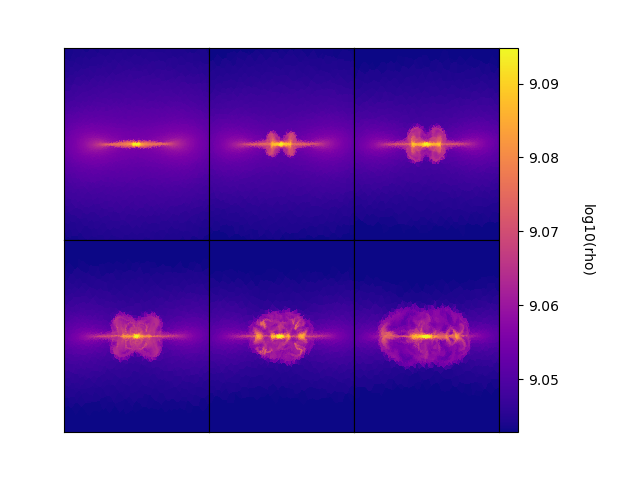
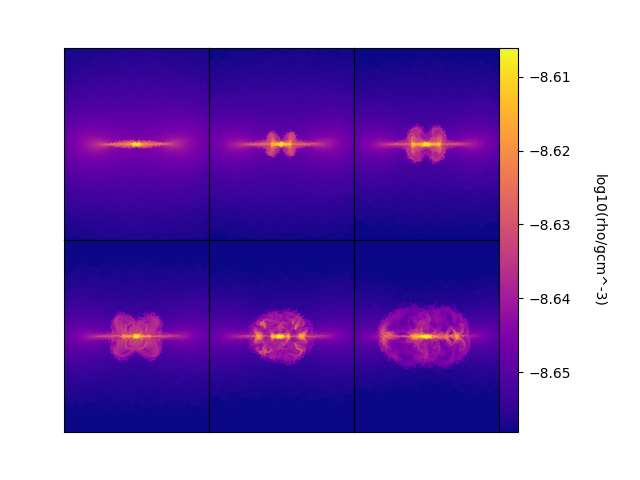
.

diff --git a/lewis_arepo_code/Masahiro_remesh.py b/lewis_arepo_code/Masahiro_remesh.py
@@ -1,0 +1,116 @@
+#!/usr/bin/env python3
+# -*- coding: utf-8 -*-
+"""
+Created on Mon Nov  4 12:07:05 2019
+
+@author: lewisprole
+"""
+import numpy as np
+import matplotlib.pyplot as plt 
+import struct
+import binascii
+import arepo_input_writer
+import gadget_reader_lewis
+import spherical_spray
+import velocities
+import radial_density
+import internal_energy
+import calculate_radius
+import code_units
+import calculate_freefall
+import os, shutil
+import astropy.constants as ap 
+
+filename='/scratch/c.c1521474/Masahiro/ics/snapshot_150'                #read remesh data
+a=gadget_reader_lewis.reader(filename)        
+shutil.copyfile(filename,'/scratch/c.c1521474/Masahiro/remeshed.dat')
+
+n0,n1,n2,n3,n4,n5=a.npart
+                                            #header data
+sofar=[]
+npart=(n0,n1,n2,n3,n4,n5)
+massarr=(0,0,0,0,0,0)
+time=10
+redshift=0
+flag_sfr=0
+flag_feedback=0
+npartTotal=(n0,n1,n2,n3,n4,n5)
+flag_cooling=0
+num_files=1
+boxsize=0
+cos1=0
+cos2=0
+hubble_param=1
+flag_stellarage=0
+flag_metals=0
+npartHighword=(0,0,0,0,0,0)
+flag_entropy=0
+flag_dp=1
+flag_1pt=0
+scalefactor=1
+
+
+#box parameters - Bonnor Ebert sphere in diffuse ISM
+T=10
+M=1.989e33
+r=2.4e4*ap.au.cgs.value
+n0=6e5 * 2.4 * ap.m_p.cgs.value
+enhance=1.5
+n_bg=1.1e4 * 2.4 * ap.m_p.cgs.value
+boxsize=4*r
+mid=boxsize/2
+G=ap.G.cgs.value
+
+Bsize_CU=round(boxsize/code_units.d_cu,3)
+print('boxsize: '+ str(Bsize_CU))
+print('radius: '+str(r/code_units.d_cu))
+boxsize=Bsize_CU*code_units.d_cu
+
+
+#convert back to cgs
+m=a.mass
+m_cgs=np.asarray(m)*code_units.M_cu  
+x=np.asarray(a.x)*code_units.d_cu 
+y=np.asarray(a.y)*code_units.d_cu
+z=np.asarray(a.z)*code_units.d_cu
+
+#add solid rotation
+vx,vy,vz=velocities.rot_sphere(boxsize,(x,y,z),M,r,0.02)
+vx=vx/code_units.v_cu
+vy=vy/code_units.v_cu
+vz=vz/code_units.v_cu 
+v=(vx,vy,vz)
+
+#prepare for rewrite 
+x=(a.x,a.y,a.z)
+ids=a.ids
+u=a.u
+
+#magnetic field
+Bx=np.zeros_like(vx) #only in z direction 
+By=np.zeros_like(vy)
+
+
+crit_MtoF=0.53/(3*np.pi) * np.sqrt(5/G) #critical mass-to-flux (cgs)
+mu=1 #ratio of mass-to-flux over critical mass-to-flux
+MtoF=mu*crit_MtoF #mass-to-flux ratio (cgs)
+F=M/MtoF #flux (cgs)
+B=F/(np.pi*(r)**2) #flux densiity (G)    
+Bcode=B/code_units.B_cu #into code units 
+Bz=Bcode*np.ones_like(vx) #only in z direction 
+B=(Bx,By,Bz)
+
+
+#write ICs file 
+sofar=arepo_input_writer.header(sofar,npart,massarr,time,redshift,flag_sfr,flag_feedback,
+           npartTotal,flag_cooling,num_files,boxsize,cos1,cos2,
+           hubble_param,flag_stellarage,flag_metals,npartHighword,
+           flag_entropy,flag_dp,flag_1pt,scalefactor)    
+sofar=arepo_input_writer.tag_block(sofar,x,'POS ','d',3)
+sofar=arepo_input_writer.tag_block(sofar,v,'VEL ','d',3)
+sofar=arepo_input_writer.tag_block(sofar,ids,'ID  ','i',1)
+sofar=arepo_input_writer.tag_block(sofar,m,'MASS','d',1)
+sofar=arepo_input_writer.tag_block(sofar,u,'U   ','d',1)
+sofar=arepo_input_writer.tag_block(sofar,B,'BFLD','d',3)
+arepo_input_writer.writer(sofar,'/scratch/c.c1521474/Masahiro/arepo_input_mu1.dat')
+

diff --git a/lewis_arepo_code/analyse.py b/lewis_arepo_code/analyse.py
@@ -287,27 +287,68 @@ def plot6(dirname,snaps,weight_type,zoomzone,boxsize,force_lin):
 		fig.colorbar(im,ax=axs.ravel().tolist(), shrink=1,pad=0)
 
 
-def sliceplot(dirname,names):
+def sliceplot(dirname,names,weight_type):
+	if weight_type=='rho':
+		tag='log10(rho/gcm^-3)'
+		unit=code_units.rho_cu
+	if weight_type=='bratio':
+		unit=code_units.B_cu
+		tag='log10(Bz/G)'
 	fig,axs=plt.subplots(2,3,sharey=True,sharex=True)
 	axs=axs.ravel()
 	for i in range(len(axs)):
 		A=np.fromfile(dirname+names[i], dtype='int32', sep="")[2:].reshape([1000, 1000])
 		if i==0:
-			im=axs[i].imshow(np.log10(A.T),aspect='auto', cmap='plasma', origin='lower')
+			im=axs[i].imshow(np.log10(A.T*unit),aspect='auto', cmap='plasma', origin='lower')
 			clim=im.properties()['clim']
 			axs[i].set_xticks([])
 			axs[i].set_yticks([])
 			axs[i].set_xlim(0,1000)
 			axs[i].set_ylim(0,1000)
 		else:
-			axs[i].imshow(np.log10(A.T),clim=clim,aspect='auto', cmap='plasma', origin='lower')
+			axs[i].imshow(np.log10(A.T*unit),clim=clim,aspect='auto', cmap='plasma', origin='lower')
 			axs[i].set_xticks([])
 			axs[i].set_yticks([])
 			axs[i].set_xlim(0,1000)
 			axs[i].set_ylim(0,1000)
 	fig.subplots_adjust(0.1,0.1,0.9,0.9,0,0)
 	cbar=fig.colorbar(im,ax=axs.tolist(), shrink=1,pad=0)
-	cbar.ax.set_ylabel('log10(rho)', rotation=270,labelpad=25)
+	cbar.ax.set_ylabel(tag, rotation=270,labelpad=25)
+
+def ratioB_cube(name,size_cu,pixels):
+	
+	x=np.linspace(0,size_cu,pixels) 
+	y,x=np.meshgrid(x,x)
+	x=x-size_cu/2
+	y=y-size_cu/2
+	
+	A=np.fromfile(name,dtype=np.int32)[3:]
+	Bx=A[0::3].reshape(pixels,pixels,pixels)
+	A=np.fromfile(name,dtype=np.int32)[3:]
+	By=A[1::3].reshape(pixels,pixels,pixels)
+	A=np.fromfile(name,dtype=np.int32)[3:]
+	Bz=A[2::3].reshape(pixels,pixels,pixels)
+	bratio=np.zeros((1000,1000,1000))
+	for i in range (pixels):
+		bx=Bx[:,:,i]
+		by=By[:,:,i]
+		bz=Bz[:,:,i]
+		bratio[:,:,i]=1/np.sqrt(1+(x/y)**2) * (bx-(x/y)*by) /bz
+	#Brot=1/np.sqrt(1+(x/y)**2) * (Bx-(x/y)*By)
+	#bratio=Brot/Bz
+	return bratio
+
+def ratioB_plot(dirname,names):
+	fig,axs=plt.subplots(2,3,sharey=True,sharex=True)
+	axs=axs.ravel()
+	for i in range (len(axs)):
+		bratio=np.absolute(ratioB_cube(dirname+names[5-i],0.12,1000)[:,400:600,:])
+		bratio=np.sum(bratio,1)
+		if i==0:
+			im=axs[5-i].imshow(bratio)
+			clim=im.properties()['clim']
+		else:	
+			axs[5-i].imshow(bratio,clim=clim)
 
 
 def spacial_average(snap,boxsize):

diff --git a/lewis_arepo_code/Masahiro_premesh.py b/lewis_arepo_code/Masahiro_premesh.py
@@ -17,9 +17,9 @@ import plot3D
 T=10
 M=1.989e33
 r=2.4e4*ap.au.cgs.value
-n0=6e5
+n0=6e5 * 2.4 * ap.m_p.cgs.value
 enhance=1.5
-n_bg=1.1e4
+n_bg=1.1e4 * 2.4 * ap.m_p.cgs.value
 boxsize=4*r
 mid=boxsize/2
 G=ap.G.cgs.value
@@ -36,7 +36,7 @@ x,y,z=spherical_spray.spherical_cloud(N_sphere,N_bg,r,boxsize,boxsize,boxsize)
 rs=np.sqrt((mid-x)**2+(mid-y)**2+(mid-z)**2)
 
 #density
-rho=radial_density.non_crit_BE(x,y,z,boxsize,T,n0,n_bg,r)
+rho,rs=radial_density.non_crit_BE(x,y,z,boxsize,T,n0,n_bg,r)
 
 #others
 ids =np.linspace(1,len(x),len(x)).astype(int)
